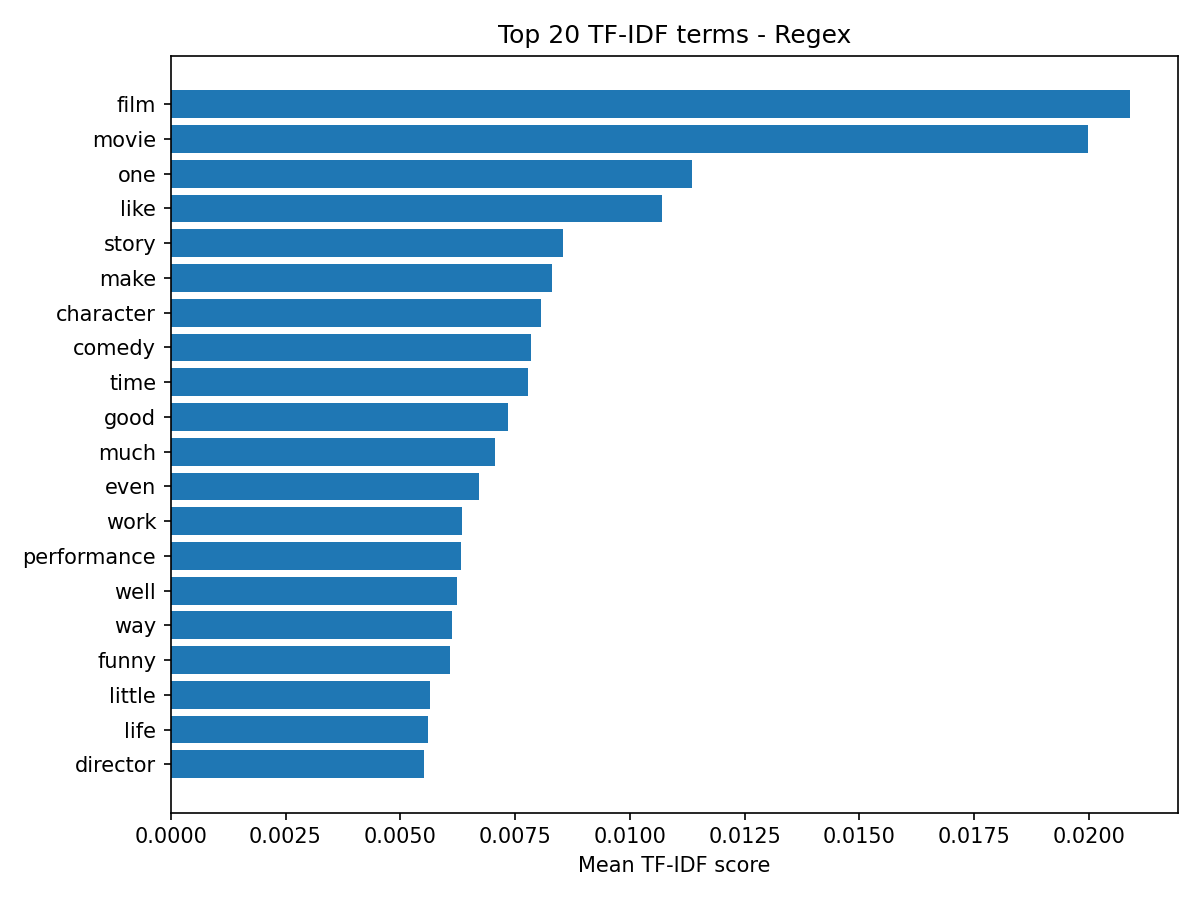
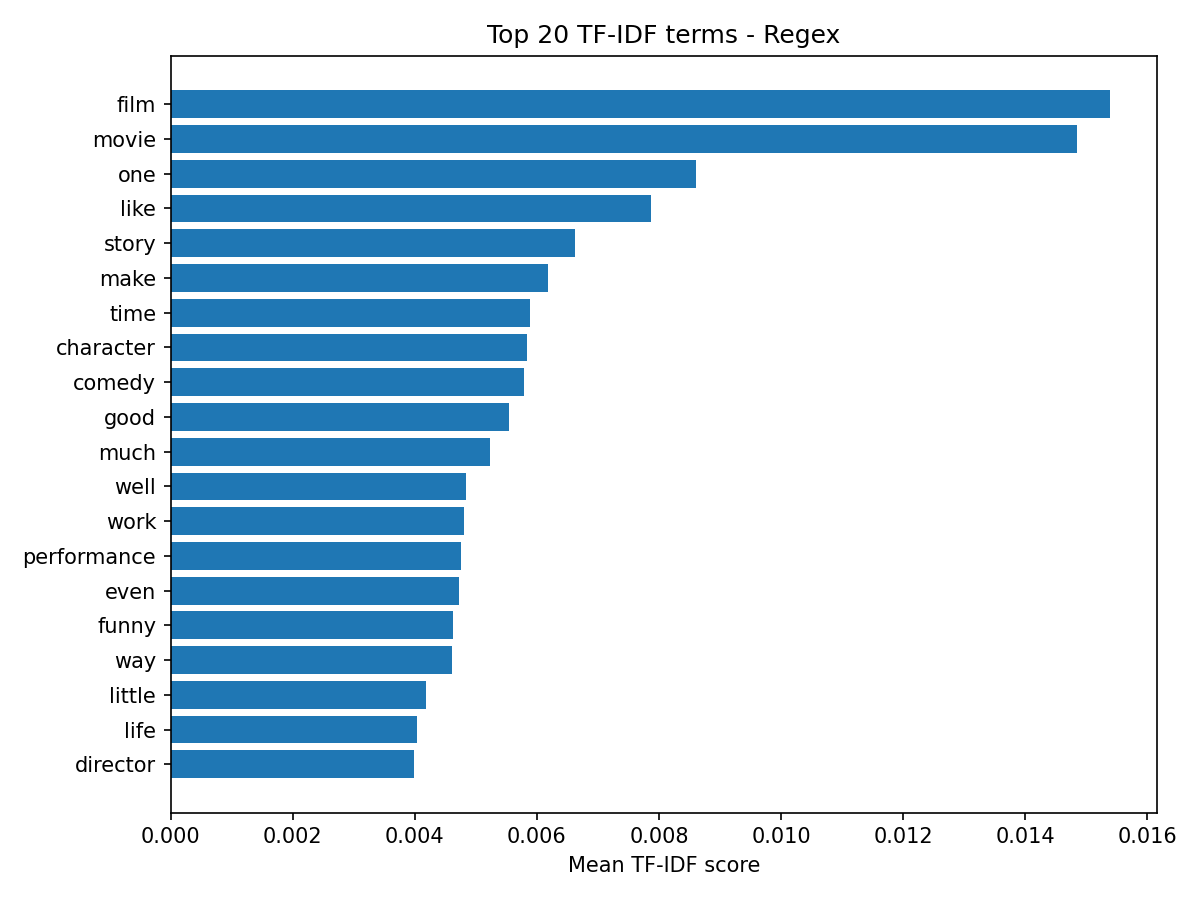
Gemma - need to run on GPU

diff --git a/task1/task1.py b/task1/task1.py
@@ -5,6 +5,7 @@ import re
 import matplotlib.pyplot as plt
 import nltk
 import numpy as np
+from huggingface_hub import login
 from nltk.corpus import stopwords
 from nltk.stem import WordNetLemmatizer
 from sentence_transformers import SentenceTransformer
@@ -18,7 +19,7 @@ from sklearn.svm import LinearSVC
 from lib import utils
 
 # tfidf_max_features = 50000
-tfidf_max_features = 10000
+tfidf_max_features = 50000
 regex_contamination_percent = 0.259
 seed = 42
 os.environ["SSL_CERT_FILE"] = "/etc/ssl/certs/ca-bundle.crt"
@@ -44,7 +45,7 @@ def get_confusion_matrix(true_label, pred_label):
     return confusion_matrix(true_label, pred_label)
 
 
-def preprocess(text):
+def preprocess(text):  # Ironically barely 1% difference
     text = text.lower()
     text = re.sub(r"\d+", "NUM", text)
     tokens = re.findall(r"\b[a-z]+\b", text)
@@ -112,6 +113,30 @@ def train_and_eval_svm(
     cm = get_confusion_matrix(np.array(val_labels)[val_mask], preds[val_mask])
     acc = (cm[0, 0] + cm[1, 1]) / cm.sum()
     print(f"\n[{name}-svm] spam removed: {(val_spam==-1).sum()} | accuracy: {acc:.3f}")
+    print(cm)
+    return cm
+
+
+def train_and_eval_gemma(
+    clean_texts, clean_labels, val_texts, val_labels, val_spam, name
+):
+    login()
+    sbert = SentenceTransformer("google/embeddinggemma-300M")
+    X_train = sbert.encode(
+        list(clean_texts), prompt_name="Classification", show_progress_bar=True
+    )
+    X_val = sbert.encode(
+        list(val_texts), prompt_name="Classification", show_progress_bar=True
+    )
+    clf = LogisticRegression(max_iter=1000)
+    clf.fit(X_train, clean_labels)
+    preds = np.where(val_spam == -1, -1, clf.predict(X_val))
+    val_mask = preds != -1
+    cm = get_confusion_matrix(np.array(val_labels)[val_mask], preds[val_mask])
+    acc = (cm[0, 0] + cm[1, 1]) / cm.sum()
+    print(
+        f"\n[{name}-gemma] spam removed: {(val_spam==-1).sum()} | accuracy: {acc:.3f}"
+    )
     print(cm)
     return cm
 
@@ -252,7 +277,10 @@ def run_task1():
         val_spam_iso,
         "IsolationForest",
     )
-    _, axes = plt.subplots(2, 3, figsize=(12, 10))
+    cm_regex_gemma = train_and_eval_gemma(
+        clean_texts_r, clean_labels_r, text_val, labels_val, val_spam_regex, "Regex"
+    )
+    _, axes = plt.subplots(2, 4, figsize=(12, 10))
     cms = [
         cm_regex_logistic,
         cm_regex_svm,
@@ -260,6 +288,7 @@ def run_task1():
         cm_iso_logistic,
         cm_iso_svm,
         cm_iso_bertyboi,
+        cm_regex_gemma,
     ]
     titles = [
         "Regex + Logistic Regression",
@@ -268,6 +297,8 @@ def run_task1():
         "IsolationForest + Logistic Regression",
         "IsolationForest + SVM",
         "IsolationForest + Berty",
+        "IsolationForest + Berty",
+        "Regex + Gemma",
     ]
 
     for ax, cm, title in zip(axes.ravel(), cms, titles):
